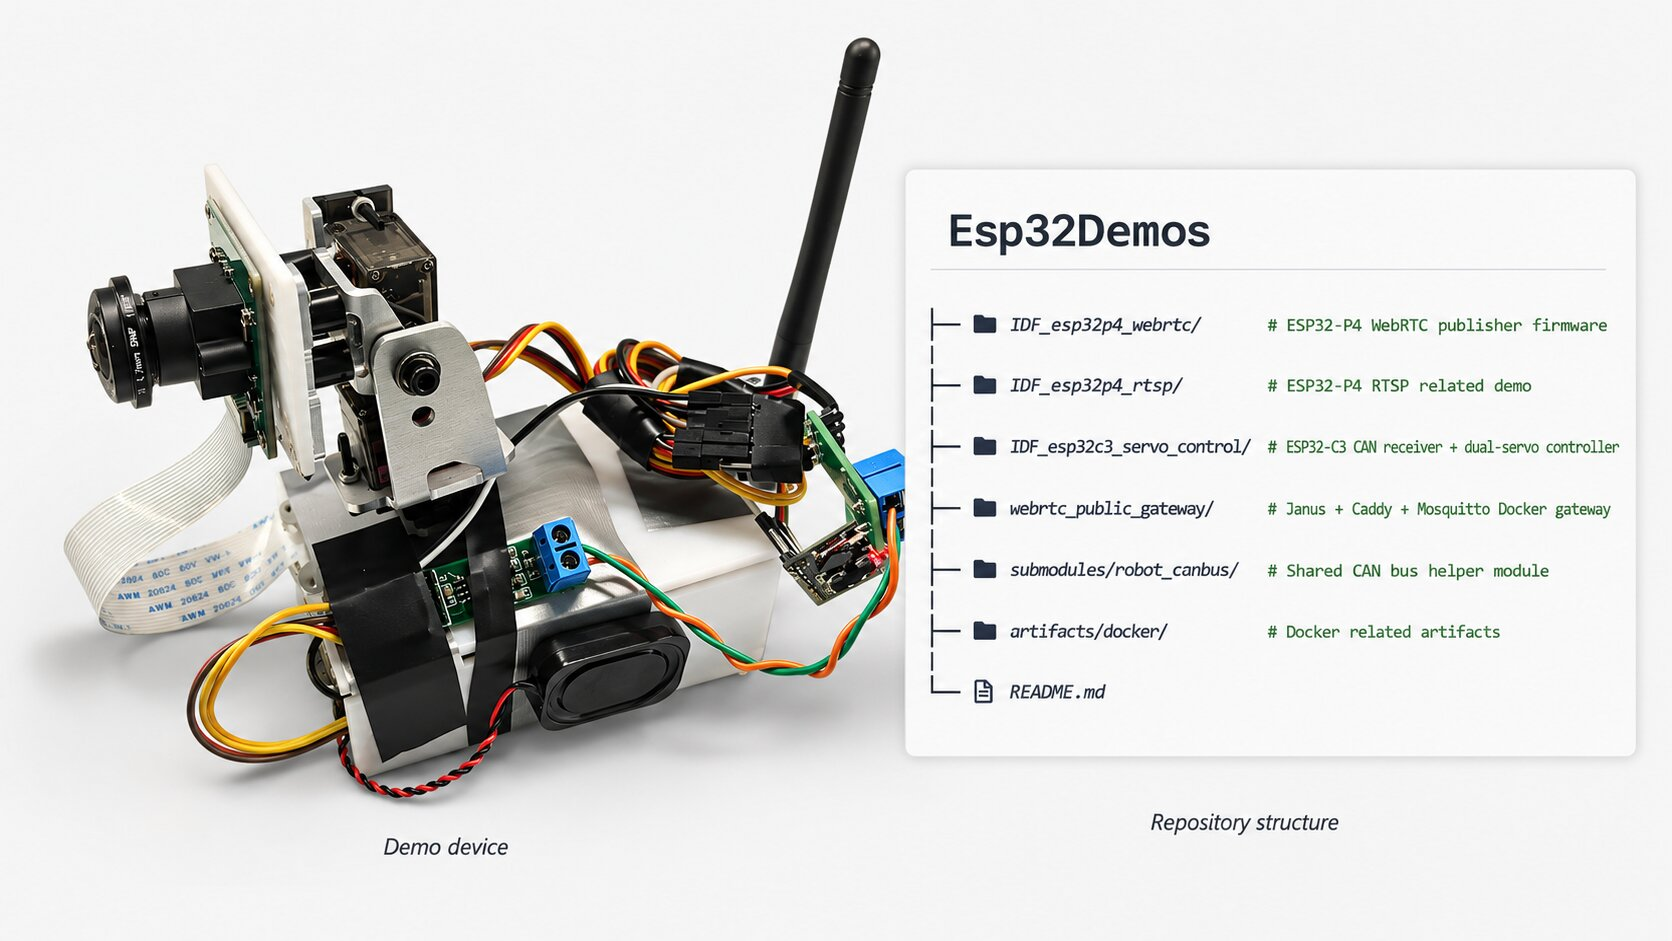
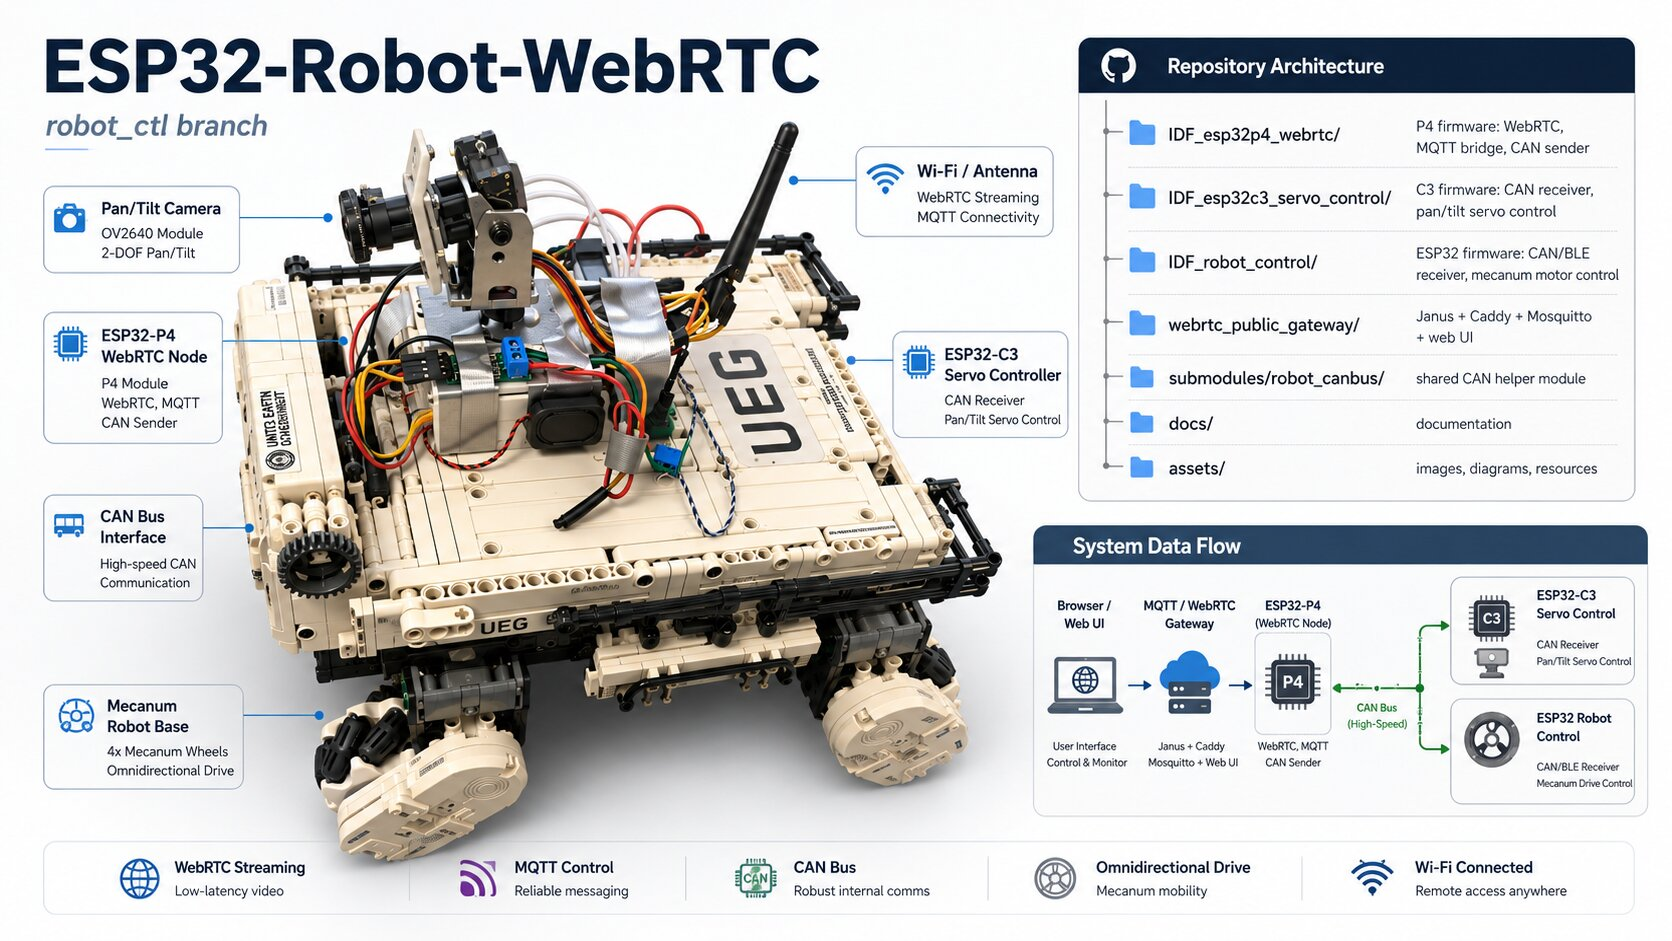
add images

diff --git a/README.md b/README.md
@@ -6,13 +6,9 @@ This repo is an ESP-IDF workspace for a 3-controller robot system:
 2. ESP32-C3: camera pan/tilt servo controller (via CAN)
 3. ESP32 (classic): mecanum robot moving platform controller (via CAN + motor driver)
 
-![Robot System Overview](assets/diagrams/robot_system_overview.svg)
+![Robot display](assets/display.jpg)
 
-![CAN Topology](assets/diagrams/can_bus_topology.svg)
-
-![Robot Platform Wiring](assets/diagrams/robot_platform_wiring.svg)
-
-https://github.com/user-attachments/assets/2f8988e1-435c-417a-9031-e2dc0ea89c77
+![Web display](assets/display_web.jpg)
 
 ## Main capabilities
 
@@ -30,6 +26,14 @@ https://github.com/user-attachments/assets/2f8988e1-435c-417a-9031-e2dc0ea89c77
 - `IDF_robot_control/`: ESP32 firmware (CAN/BLE receiver, mecanum motor control)
 - `webrtc_public_gateway/`: Janus + Caddy + Mosquitto gateway and web UI
 - `submodules/robot_canbus/`: shared CAN helper module
+
+
+![Robot System Overview](assets/diagrams/robot_system_overview.svg)
+
+![CAN Topology](assets/diagrams/can_bus_topology.svg)
+
+![Robot Platform Wiring](assets/diagrams/robot_platform_wiring.svg)
+
 
 ## Quick start
 